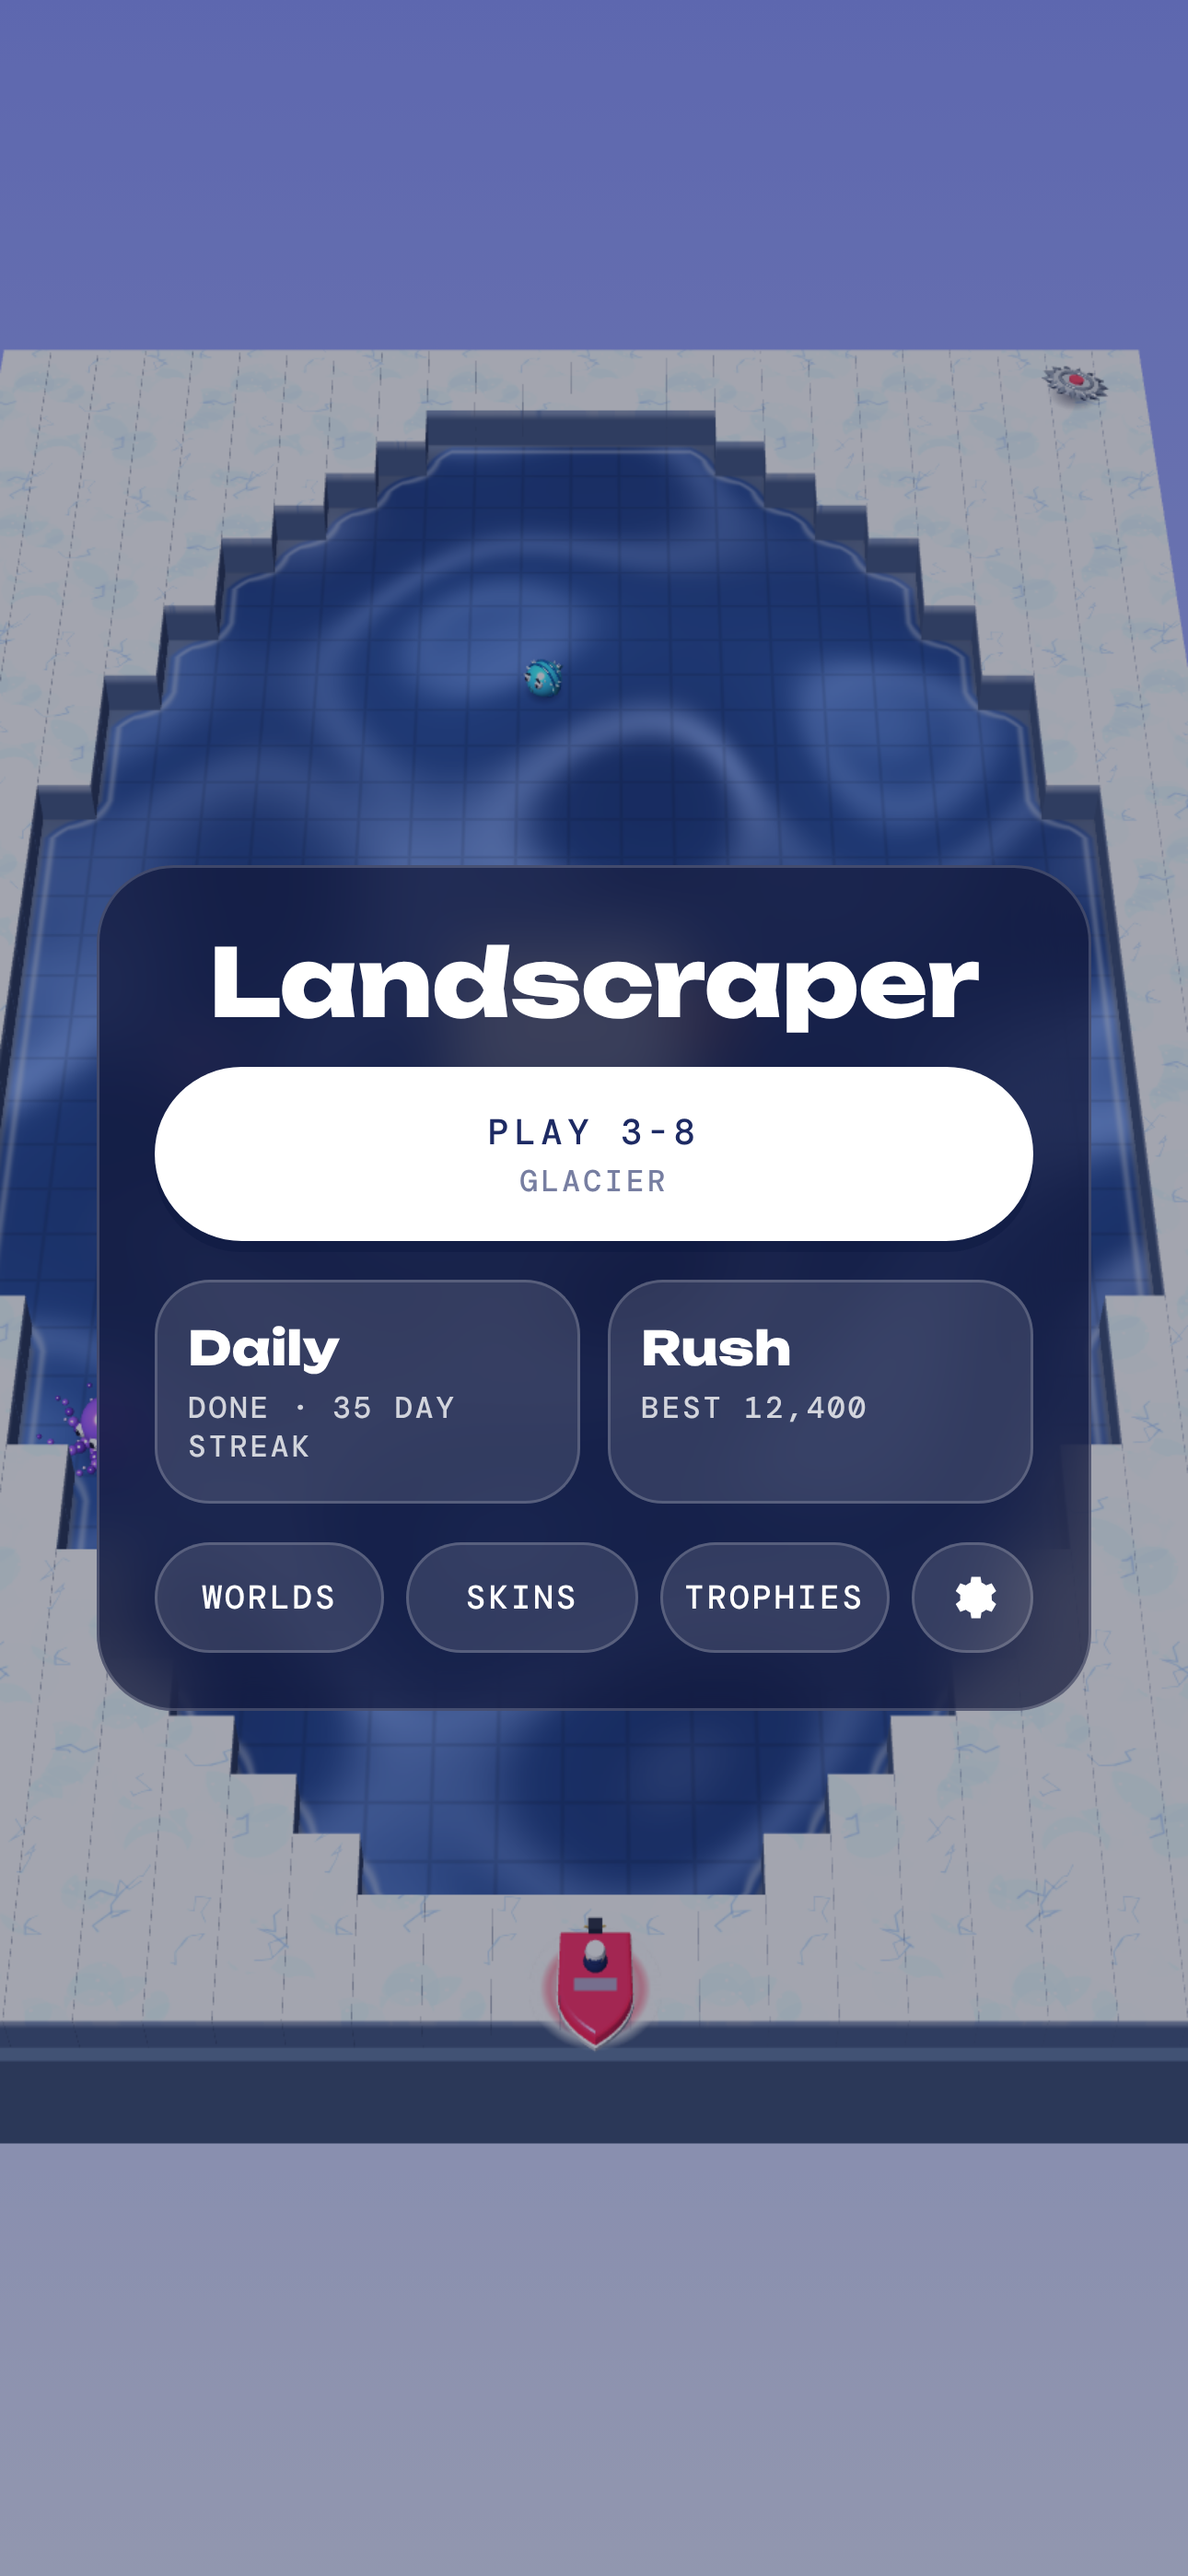
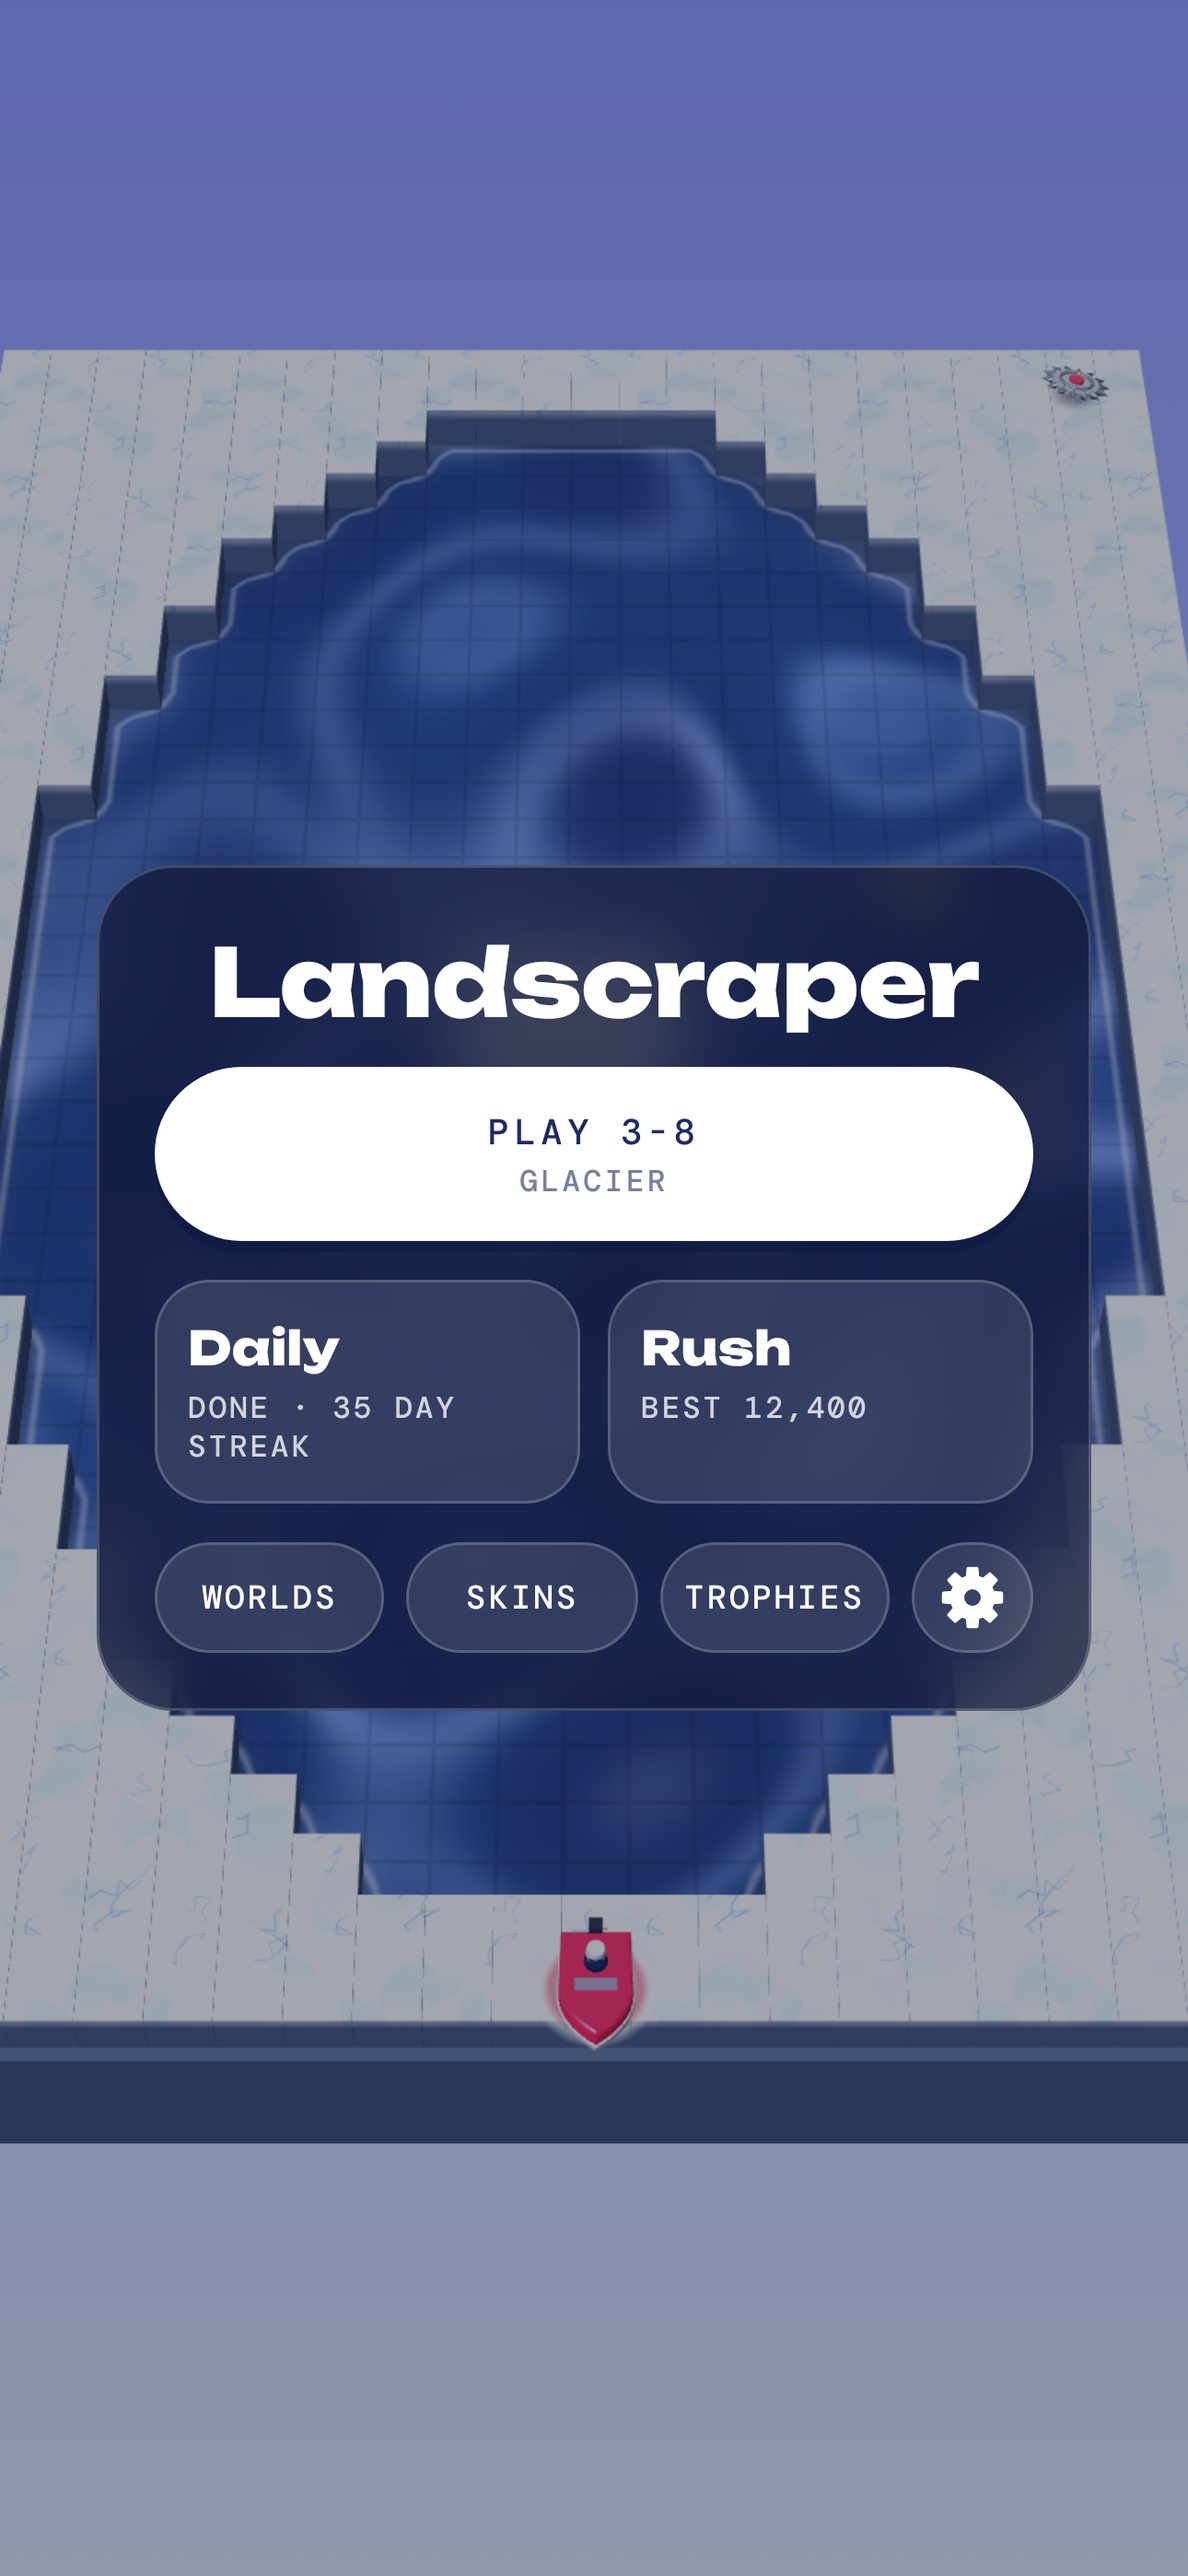
Crocodile float replaces the bathtub; blue drone; painted raft sail; clearer pack badges
Claude-Session: https://claude.ai/code/session_013uK1rMuj2prZMZHuLVKbkB

diff --git a/src/game.html b/src/game.html
@@ -231,8 +231,8 @@ body {
 .skin.g-sea { background: linear-gradient(165deg, rgba(64,170,255,0.5), rgba(20,70,160,0.25) 75%); }
 .skin.g-space { background: radial-gradient(circle at 78% 22%, rgba(255,255,255,0.7) 0 1px, transparent 2px), radial-gradient(circle at 22% 60%, rgba(255,255,255,0.6) 0 1px, transparent 2px), radial-gradient(circle at 60% 82%, rgba(255,255,255,0.5) 0 1px, transparent 2px), linear-gradient(165deg, rgba(150,90,255,0.55), rgba(30,12,80,0.45) 75%); }
 .skin.g-pool { background: linear-gradient(165deg, rgba(255,120,210,0.5), rgba(60,215,200,0.28) 80%); }
-.skin .gb { position: absolute; top: 7px; left: 7px; width: 18px; height: 18px; color: rgba(255,255,255,0.9); filter: drop-shadow(0 1px 1px rgba(0,0,0,0.35)); }
-.skin .gb .ic-star { width: 18px; height: 18px; vertical-align: top; }
+.skin .gb { position: absolute; top: 6px; left: 6px; width: 22px; height: 22px; color: rgba(255,255,255,0.9); filter: drop-shadow(0 1px 1px rgba(0,0,0,0.35)); }
+.skin .gb .ic-star { width: 22px; height: 22px; vertical-align: top; }
 .skin .lk { position: absolute; top: 6px; right: 6px; width: 22px; height: 22px; padding: 3px; box-sizing: border-box; border-radius: 50%; background: rgba(10,16,40,0.65); color: #fff; }
 .skin.on { box-shadow: inset 0 0 0 2px #fff, 0 0 0 1px #fff; }
 .sprev .pvh { width: 128px; height: 128px; flex: none; }
@@ -823,7 +823,7 @@ window.Board = (function () {
   // ---------- the player: a little hover drone ----------
   const drone = new THREE.Group();
   const body = new THREE.Group(); drone.add(body);
-  const white = new THREE.MeshPhongMaterial({ color: 0xff2e55, shininess: 110, specular: 0xffffff, emissive: 0x3a0010 }); // the drone's body: one bright hero color in every world
+  const white = new THREE.MeshPhongMaterial({ color: 0x2f86ff, shininess: 110, specular: 0xffffff, emissive: 0x001a44 }); // the drone's body: electric blue (the motorboat is the red one)
   const accent = new THREE.MeshPhongMaterial({ color: 0xffffff, shininess: 90, specular: 0x888888 });
   const dark = new THREE.MeshPhongMaterial({ color: 0x1c2240, shininess: 120, specular: 0x8899ff });
   const glow = new THREE.MeshBasicMaterial({ color: 0x7ff0ff });
@@ -862,6 +862,15 @@ window.Board = (function () {
     g.userData.anim = (t, dt, mv) => { prop.rotation.z += dt * (mv ? 40 : 8); };
     return g;
   }
+  function sailArt() { // a sun over two waves, painted on the raft's sail
+    const c = document.createElement('canvas'); c.width = c.height = 256; const x = c.getContext('2d');
+    x.translate(128, 120); x.fillStyle = '#ff9a1f';
+    for (let k = 0; k < 12; k++) { x.save(); x.rotate(k * Math.PI / 6); x.beginPath(); x.moveTo(-10, -62); x.lineTo(0, -92); x.lineTo(10, -62); x.fill(); x.restore(); }
+    x.beginPath(); x.arc(0, 0, 54, 0, Math.PI * 2); const gr = x.createRadialGradient(-16, -16, 6, 0, 0, 56); gr.addColorStop(0, '#ffe066'); gr.addColorStop(1, '#ff7a1a'); x.fillStyle = gr; x.fill();
+    x.setTransform(1, 0, 0, 1, 0, 0); x.lineWidth = 14; x.lineCap = 'round';
+    for (const [y, col] of [[196, '#2f86ff'], [226, '#1d5fd6']]) { x.strokeStyle = col; x.beginPath(); for (let i = 0; i <= 8; i++) { const px = 24 + i * 26; i ? x.quadraticCurveTo(px - 13, y + (i % 2 ? -14 : 14), px, y) : x.moveTo(px, y); } x.stroke(); }
+    const t = new THREE.CanvasTexture(c); return t;
+  }
   function makeRaft() { // logs, a mast and a striped sail
     const g = new THREE.Group(), log = M(0xb07a4a, { shininess: 25 }), rope = M(0xf2dfb0), cloth = M(0xfff7e8, { side: THREE.DoubleSide }), red = M(0xff2e55, { side: THREE.DoubleSide });
     for (let k = 0; k < 5; k++) { const c = new THREE.Mesh(new THREE.CylinderGeometry(0.075, 0.075, 0.95 + (k % 2) * 0.08, 12), log); c.rotation.x = Math.PI / 2; c.position.set(-0.32 + k * 0.16, 0.0, 0); g.add(c); }
@@ -870,7 +879,7 @@ window.Board = (function () {
     const sail = new THREE.Group(); sail.position.set(0, 0.48, -0.05);
     const sg = new THREE.PlaneGeometry(0.62, 0.62, 6, 6); const pos = sg.attributes.position; for (let i = 0; i < pos.count; i++) pos.setZ(i, 0.12 * (1 - Math.pow(pos.getX(i) / 0.31, 2)) * (1 - Math.pow(pos.getY(i) / 0.31, 2) * 0.4)); sg.computeVertexNormals();
     const s1 = new THREE.Mesh(sg, cloth); s1.position.y = 0.05; sail.add(s1);
-    const st = new THREE.Mesh(new THREE.PlaneGeometry(0.63, 0.12), red); st.position.set(0, 0.05, 0.125); sail.add(st);
+    const s2 = new THREE.Mesh(sg, M(0xffffff, { map: sailArt(), side: THREE.DoubleSide, transparent: true, depthWrite: false })); s2.position.set(0, 0.05, 0.004); sail.add(s2);
     g.add(sail);
     const flag = boxM(0.16, 0.09, 0.01, M(0xffd166), 0.08, 0.92, -0.05); g.add(flag);
     g.userData.anim = (t, dt, mv) => { sail.rotation.y = Math.sin(t * 1.6) * 0.12; flag.rotation.y = Math.sin(t * 9) * 0.3; };
@@ -989,16 +998,21 @@ window.Board = (function () {
     g.userData.anim = (t, dt) => { g.rotation.y += dt * 0.6; };
     return g;
   }
-  function makeTub() { // a bathtub with feet, bubbles on top
-    const g = new THREE.Group(), por = M(0xff5f9e, { shininess: 150, specular: 0xffffff }), rimM = M(0xffffff, { shininess: 150 }), gold = M(0xffd23f, { shininess: 140 }), foam = M(0xbdf3ff, { shininess: 40 });
-    const tub = new THREE.Mesh(new THREE.CylinderGeometry(0.34, 0.3, 0.28, 24, 1, true), por); tub.scale.z = 1.5; tub.position.y = 0.16; tub.material.side = THREE.DoubleSide; g.add(tub);
-    const bottom = sph(0.3, por, 1, 0.3, 1.5, 0, 0.04, 0); g.add(bottom);
-    const rim = new THREE.Mesh(new THREE.TorusGeometry(0.34, 0.035, 8, 32), rimM); rim.rotation.x = Math.PI / 2; rim.scale.y = 1.5; rim.position.y = 0.3; g.add(rim);
-    for (const [x, z] of [[-0.22, -0.34], [0.22, -0.34], [-0.22, 0.34], [0.22, 0.34]]) g.add(sph(0.05, gold, 1, 1, 1, x, -0.02, z));
-    const bubbles = []; for (let k = 0; k < 9; k++) { const b = sph(0.07 + (k % 3) * 0.02, foam, 1, 1, 1, Math.cos(k * 2.3) * 0.18, 0.32, Math.sin(k * 2.3) * 0.28); g.add(b); bubbles.push(b); }
-    const tap = new THREE.Mesh(new THREE.TorusGeometry(0.06, 0.02, 6, 12, Math.PI), gold); tap.position.set(0, 0.38, -0.46); g.add(tap);
-    { const dy = M(0xffd23a, { shininess: 120 }); g.add(sph(0.09, dy, 1, 0.8, 1.2, 0.08, 0.44, 0.12)); g.add(sph(0.06, dy, 1, 1, 1, 0.08, 0.53, 0.2)); g.add(sph(0.03, M(0xff8a1f), 1.2, 0.5, 1.2, 0.08, 0.52, 0.26)); }
-    g.userData.anim = (t) => { bubbles.forEach((b, k) => { b.position.y = 0.32 + Math.sin(t * 3 + k) * 0.02; }); };
+  function makeCroc() { // an inflatable crocodile float
+    const g = new THREE.Group(), grn = M(0x3fcf4a, { shininess: 140, specular: 0xffffff }), belly = M(0xc8f56a, { shininess: 120, specular: 0xffffff }), wht = M(0xffffff, { shininess: 100 }), blk = M(0x111526), pink = M(0xff5f8f);
+    g.add(sph(0.3, grn, 1, 0.55, 1.75, 0, 0.12, -0.05)); // body
+    g.add(sph(0.29, belly, 1.02, 0.25, 1.72, 0, 0.04, -0.05));
+    const head = new THREE.Group(); head.position.set(0, 0.16, 0.5); g.add(head);
+    head.add(sph(0.17, grn, 1.05, 0.62, 1.7, 0, 0, 0.06)); // snout
+    head.add(sph(0.16, pink, 0.95, 0.12, 1.55, 0, -0.06, 0.08)); // mouth
+    for (const k of [-1, 1]) { for (let n = 0; n < 4; n++) { const t = new THREE.Mesh(new THREE.ConeGeometry(0.022, 0.06, 6), wht); t.rotation.x = Math.PI; t.position.set(k * 0.14, -0.04, -0.06 + n * 0.08); head.add(t); } }
+    for (const k of [-1, 1]) { head.add(sph(0.075, grn, 1, 1, 1, k * 0.09, 0.12, -0.12)); head.add(sph(0.05, wht, 1, 1, 0.7, k * 0.09, 0.16, -0.08)); head.add(sph(0.026, blk, 1, 1, 0.7, k * 0.09, 0.17, -0.045)); }
+    for (const k of [-1, 1]) head.add(sph(0.022, blk, 1, 0.6, 1, k * 0.05, 0.08, 0.32)); // nostrils
+    for (let n = 0; n < 5; n++) { const r = new THREE.Mesh(new THREE.ConeGeometry(0.05, 0.1, 8), M(0x2aa63a, { shininess: 120 })); r.position.set(0, 0.29 - n * 0.012, 0.22 - n * 0.16); g.add(r); }
+    const tail = new THREE.Group(); tail.position.set(0, 0.12, -0.52); g.add(tail);
+    tail.add(sph(0.14, grn, 1, 0.8, 2.0, 0, 0, -0.18));
+    for (const [x, z] of [[0.26, 0.22], [-0.26, 0.22], [0.24, -0.3], [-0.24, -0.3]]) g.add(sph(0.08, grn, 1.3, 0.6, 1, x, 0.02, z)); // feet
+    g.userData.anim = (t, dt, mv) => { tail.rotation.y = Math.sin(t * (mv ? 7 : 2.4)) * 0.35; head.rotation.x = -Math.abs(Math.sin(t * 1.3)) * 0.12; g.rotation.z = Math.sin(t * 2) * 0.04; };
     return g;
   }
   droneG.userData.anim = (t, dt) => { rotors.forEach((r, k) => { r.rotation.y += dt * (k % 2 ? 30 : -30); }); };
@@ -1016,7 +1030,7 @@ window.Board = (function () {
     { id: 'astro', name: 'Astronaut', pack: 'space', make: makeAstro, lift: 0.4, sc: 1.2 },
     { id: 'swan', name: 'Swan', pack: 'pool', make: makeSwan, lift: 0.26, sc: 1.2 },
     { id: 'donut', name: 'Donut', pack: 'pool', make: makeDonut, lift: 0.24, sc: 1.12 },
-    { id: 'tub', name: 'Bathtub', pack: 'pool', make: makeTub, lift: 0.28, sc: 1.08 },
+    { id: 'croc', name: 'Crocodile', pack: 'pool', make: makeCroc, lift: 0.26, sc: 1.1 },
   ];
   const skinGroups = { drone: droneG };
   for (const sk of SKINS) if (sk.make) { skinGroups[sk.id] = sk.make(); if (sk.sc) skinGroups[sk.id].scale.setScalar(sk.sc); body.add(skinGroups[sk.id]); }
@@ -2205,9 +2219,9 @@ window.Board = (function () {
   let trialPending = null, trialActive = false;
   const LOCK = '<svg class="lk" viewBox="0 0 24 24" fill="currentColor" aria-hidden="true"><path d="M7 10V7.5a5 5 0 0 1 10 0V10h1a2 2 0 0 1 2 2v8a2 2 0 0 1-2 2H6a2 2 0 0 1-2-2v-8a2 2 0 0 1 2-2zm2.6 0h4.8V7.5a2.4 2.4 0 0 0-4.8 0zM12 13.5a1.6 1.6 0 0 0-.8 3V18h1.6v-1.5a1.6 1.6 0 0 0-.8-3z"/></svg>';
   const GROUP_ICON = {
-    sea: '<svg class="gb" viewBox="0 0 24 24" fill="currentColor"><path d="M1 10c2.7 0 2.7-2.4 5.5-2.4S9.2 10 12 10s2.7-2.4 5.5-2.4S20.3 10 23 10v3c-2.7 0-2.7-2.4-5.5-2.4S14.8 13 12 13s-2.7-2.4-5.5-2.4S3.7 13 1 13zm0 6c2.7 0 2.7-2.4 5.5-2.4S9.2 16 12 16s2.7-2.4 5.5-2.4S20.3 16 23 16v3c-2.7 0-2.7-2.4-5.5-2.4S14.8 19 12 19s-2.7-2.4-5.5-2.4S3.7 19 1 19z"/></svg>',
-    space: '<svg class="gb" viewBox="0 0 24 24" fill="currentColor"><circle cx="12" cy="12" r="6"/><path d="M3.5 17.5c-1.6-1.6 1.6-5.8 6-8.6s8.6-3.6 10.5-2.6c1.4.8.3 3-1.6 5.2l-.6-1.5c.9-1.3 1.2-2.2.8-2.5-1-.8-4.6.4-8.2 2.7-3.7 2.4-6.2 5.4-5.4 6.3.4.4 1.6.2 3.2-.5l.9 1.4c-2.6 1.2-4.7 1.4-5.6.1z"/></svg>',
-    pool: '<svg class="gb" viewBox="0 0 24 24" fill="currentColor" fill-rule="evenodd"><path d="M12 2a10 10 0 1 1 0 20 10 10 0 0 1 0-20zm0 5.5a4.5 4.5 0 1 0 0 9 4.5 4.5 0 0 0 0-9z"/></svg>' };
+    sea: '<svg class="gb" viewBox="0 0 24 24"><circle cx="12" cy="12" r="11" fill="#fff"/><g fill="none" stroke="#1d5fd6" stroke-width="2.2" stroke-linecap="round"><circle cx="12" cy="6.4" r="1.9"/><path d="M12 8.3v10.2M8.4 11.2h7.2M6 14.2c.6 2.8 3 4.4 6 4.4s5.4-1.6 6-4.4"/></g></svg>',
+    space: '<svg class="gb" viewBox="0 0 24 24"><circle cx="12" cy="12" r="11" fill="#fff"/><path d="M12 3.6c2.6 2 3.8 4.9 3.8 8.2v3.6H8.2v-3.6c0-3.3 1.2-6.2 3.8-8.2z" fill="#7a3cff"/><circle cx="12" cy="10" r="1.7" fill="#7fe8ff"/><path d="M8.2 12.6 5.6 15.4v2.2l2.6-1.2zM15.8 12.6l2.6 2.8v2.2l-2.6-1.2z" fill="#ff3f8e"/><path d="M10 16.4h4l-.6 3.4h-2.8z" fill="#ff9a1f"/></svg>',
+    pool: '<svg class="gb" viewBox="0 0 24 24"><circle cx="12" cy="12" r="11" fill="#fff"/><circle cx="12" cy="12" r="8.6" fill="#ff3f8e"/><path d="M12 3.4a8.6 8.6 0 0 1 8.2 6L12 12zM20.2 14.6A8.6 8.6 0 0 1 12 20.6V12zM3.8 14.6 12 12l-8.2-2.6a8.6 8.6 0 0 0 0 5.2z" fill="#ffd23f"/><path d="M12 12 6.2 5.6A8.6 8.6 0 0 1 12 3.4zM12 12l-5.8 6.4A8.6 8.6 0 0 0 12 20.6z" fill="#3fd0ff"/><circle cx="12" cy="12" r="2.4" fill="#fff"/></svg>' };
   const groupOf = (k) => k.pack || 'prog';
   const PACK_TINT = { sea: '#3fb0ff', space: '#9b5cff', pool: '#ff7ad9' };
   let skinView = null, pv = null;
